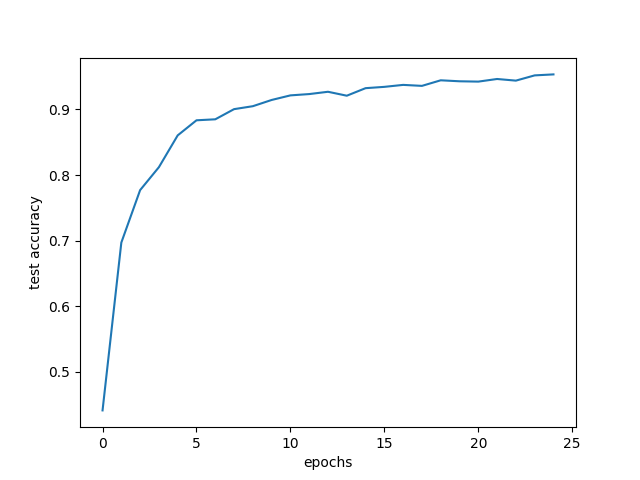
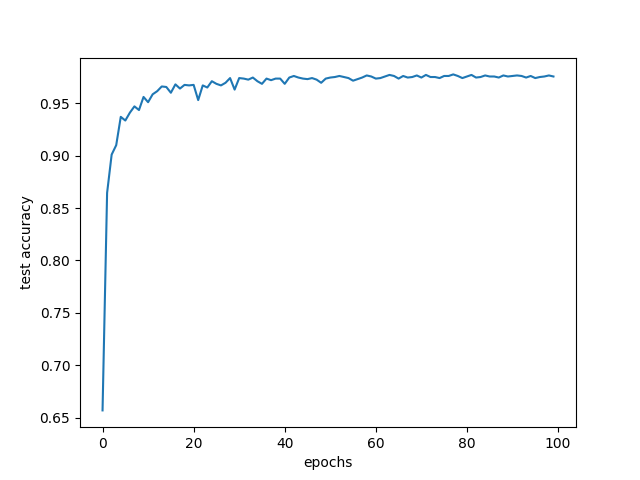
generated pictures

diff --git a/CZ4042-Neural-Networks/Proj2/project2a_1.py b/CZ4042-Neural-Networks/Proj2/project2a_1.py
@@ -16,7 +16,7 @@ from theano.tensor.signal import pool
  
 np.random.seed(10)
 batch_size = 128
-noIters = 5
+noIters = 100
 
 def init_weights_bias4(filter_shape, d_type):
     fan_in = np.prod(filter_shape[1:])
@@ -57,7 +57,7 @@ def model(X, w1, b1, w2, b2, w3, b3, w4, b4):
     #forward the output of fully connected layer to the 10 classification neurons in py_x,
     #activation function is now the softmax for probabilities in the outputs
     py_x = T.nnet.softmax(T.dot(y3, w4) + b4)
-    return y1, o1, y2, o2, y3, o3, py_x
+    return y1, o1, y2, o2, y3, py_x
 
 def sgd(cost, params, lr=0.05, decay=0.0001):
     grads = T.grad(cost=cost, wrt=params)
@@ -104,7 +104,7 @@ w3, b3 = init_weights_bias2((num_filters2*3*3, fully_connected_layer), X.dtype)
 w4, b4 = init_weights_bias2((fully_connected_layer, 10), X.dtype)
 
 
-y1, o1, y2, o2, y3, o3, py_x = model(X, w1, b1, w2, b2, w3, b3, w4, b4)
+y1, o1, y2, o2, y3, py_x = model(X, w1, b1, w2, b2, w3, b3, w4, b4)
 
 y_x = T.argmax(py_x, axis=1)
 cost = T.mean(T.nnet.categorical_crossentropy(py_x, Y))
@@ -142,13 +142,14 @@ pylab.xlabel('epochs')
 pylab.ylabel('test accuracy')
 pylab.savefig('figure_2a_accuracy.png')
 
+#plot training cost vs epochs
 pylab.figure()
 pylab.plot(range(noIters), c)
 pylab.xlabel('epochs')
 pylab.ylabel('cost')
 pylab.savefig('figure_2a_cost.png')
 
-
+#plot filters learned
 w = w1.get_value()
 pylab.figure('filters learned')
 pylab.gray()
@@ -156,39 +157,53 @@ for i in range(num_filters1):
     pylab.subplot(5, 3, i+1); pylab.axis('off'); pylab.imshow(w[i,:,:,:].reshape(9, 9))
 pylab.savefig('figure_2a_filtersLearned.png')
 
-ind = np.random.randint(low=0, high=2000)
-convolved, pooled = test(teX[ind:ind+1,:])
-ind = np.random.randint(low=0, high=2000)
-convolved2, pooled2 = test2(teX[ind:ind+1,:])
 
-pylab.figure('input image')
-pylab.gray()
-pylab.axis('off'); pylab.imshow(teX[ind,:].reshape(28,28))
-pylab.savefig('figure_2a_inputImage.png')
-
-pylab.figure('convolved feature maps_1')
-pylab.gray()
-for i in range(num_filters1):
-    pylab.subplot(5, 3, i+1); pylab.axis('off'); pylab.imshow(convolved[0,i,:].reshape(20,20))
-pylab.savefig('figure_2a_conv1.png')
-
-pylab.figure('pooled feature maps_1')
-pylab.gray()
-for i in range(num_filters1):
-    pylab.subplot(5, 3, i+1); pylab.axis('off'); pylab.imshow(pooled[0,i,:].reshape(10,10))
-pylab.savefig('figure_2a_pool1.png')
+for j in range(2):
+    ind = np.random.randint(low=0, high=2000)
+    print("Ind: " + str(ind))
+    convolved, pooled = test(teX[ind:ind+1,:])
+    convolved2, pooled2 = test2(teX[ind:ind+1,:])
 
 
-pylab.figure('convolved_2')
-pylab.gray()
-for i in range(num_filters2):
-    pylab.subplot(5, 4, i+1); pylab.axis('off'); pylab.imshow(convolved2[0,i,:].reshape(6,6))
-pylab.savefig('figure_2a_conv2.png')
+    #Plot input image
+    pylab.figure('input image_' + str(j+1))
+    pylab.gray()
+    pylab.axis('off'); pylab.imshow(teX[ind,:].reshape(28,28))
+    pylab.savefig('figure_2a_inputImage_' + str(j+1) + '.png')
 
-pylab.figure('pool_2')
-pylab.gray()
-for i in range(num_filters2):
-    pylab.subplot(5, 4, i+1); pylab.axis('off'); pylab.imshow(pooled2[0,i,:].reshape(3,3))
-pylab.savefig('figure_2a_pool2.png')
+
+    #Plot feature maps for for convolution layer 1
+    pylab.figure('convolved feature maps_1_' + str(j+1))
+    pylab.gray()
+    for i in range(num_filters1):
+        # Plot the maps in the shape 5*3
+        pylab.subplot(5, 3, i+1); pylab.axis('off'); pylab.imshow(convolved[0,i,:].reshape(20,20))
+    pylab.savefig('figure_2a_conv1_' + str(j+1) + '.png')
+
+    #Plot feature maps for pooling layer 1
+    pylab.figure('pooled feature maps_1_' + str(j+1))
+    pylab.gray()
+    for i in range(num_filters1):
+        # Plot the maps in the shape 5*3
+        pylab.subplot(5, 3, i+1); pylab.axis('off'); pylab.imshow(pooled[0,i,:].reshape(10,10))
+    pylab.savefig('figure_2a_pool1_' + str(j+1) + '.png')
+
+
+    #plot feature maps for convolution layer 2
+    pylab.figure('convolved_2_' + str(j+1))
+    pylab.gray()
+    for i in range(num_filters2):
+        #Plot the maps in the shape 5*4
+        pylab.subplot(5, 4, i+1); pylab.axis('off'); pylab.imshow(convolved2[0,i,:].reshape(6,6))
+    pylab.savefig('figure_2a_conv2_' + str(j+1) + '.png')
+
+
+    #plot feature maps for pooling layer 2
+    pylab.figure('pool_2_' + str(j+1))
+    pylab.gray()
+    for i in range(num_filters2):
+        #Plot the maps in the shape 5*4
+        pylab.subplot(5, 4, i+1); pylab.axis('off'); pylab.imshow(pooled2[0,i,:].reshape(3,3))
+    pylab.savefig('figure_2a_pool2_' + str(j+1) + '.png')
 
 pylab.show()

diff --git a/CZ4042-Neural-Networks/Proj2/project2a_3.py b/CZ4042-Neural-Networks/Proj2/project2a_3.py
@@ -11,7 +11,7 @@ from theano.tensor.signal import pool
 
 np.random.seed(10)
 batch_size = 128
-noIters = 50
+noIters = 100
 
 
 def init_weights_bias4(filter_shape, d_type):
@@ -69,7 +69,7 @@ def sgd_momentum(cost, params, lr=0.05, decay=0.0001, momentum=0.1):
     return updates
 """
 
-def RMSprop(cost, params, lr=0.05, decay=0.0001, rho=0.9, epsilon=1e-6):
+def RMSprop(cost, params, lr=0.0001, decay=0.0001, rho=0.9, epsilon=1e-6):
     grads = T.grad(cost=cost, wrt=params)
     updates = []
 
@@ -123,7 +123,7 @@ y1, o1, y2, o2, y3, o3, py_x = model(X, w1, b1, w2, b2, w3, b3, w4, b4)
 y_x = T.argmax(py_x, axis=1)
 cost = T.mean(T.nnet.categorical_crossentropy(py_x, Y))
 params = [w1, b1, w2, b2, w3, b3, w4, b4]
-updates = RMSprop(cost, params, lr=0.05)
+updates = RMSprop(cost, params, lr=0.001)
 
 train = theano.function(inputs=[X, Y], outputs=cost, updates=updates, allow_input_downcast=True)
 
@@ -152,55 +152,73 @@ pylab.figure()
 pylab.plot(range(noIters), a)
 pylab.xlabel('epochs')
 pylab.ylabel('test accuracy')
-pylab.savefig('figure_2a2_accuracy.png')
+pylab.savefig('figure_2a3_accuracy.png')
 
 pylab.figure()
 pylab.plot(range(noIters), c)
 pylab.xlabel('epochs')
 pylab.ylabel('cost')
-pylab.savefig('figure_2a2_cost.png')
+pylab.savefig('figure_2a3_cost.png')
 
 w = w1.get_value()
 pylab.figure('filters learned')
 pylab.gray()
 for i in range(num_filters1):
     pylab.subplot(5, 3, i + 1); pylab.axis('off'); pylab.imshow(w[i, :, :, :].reshape(9, 9))
-pylab.savefig('figure_2a2_filtersLearned.png')
+pylab.savefig('figure_2a3_filtersLearned.png')
 
 ind = np.random.randint(low=0, high=2000)
+
 convolved, pooled = test(teX[ind:ind + 1, :])
-ind = np.random.randint(low=0, high=2000)
 convolved2, pooled2 = test2(teX[ind:ind + 1, :])
 
-pylab.figure('input image')
-pylab.gray()
-pylab.axis('off');
-pylab.imshow(teX[ind, :].reshape(28, 28))
-pylab.savefig('figure_2a2_inputImage.png')
+for j in range(2):
+    ind = np.random.randint(low=0, high=2000)
+    print("Ind: " + str(ind))
+    convolved, pooled = test(teX[ind:ind+1,:])
+    convolved2, pooled2 = test2(teX[ind:ind+1,:])
 
-pylab.figure('convolved feature maps_1')
-pylab.gray()
-for i in range(num_filters1):
-    pylab.subplot(5, 3, i + 1); pylab.axis('off'); pylab.imshow(convolved[0, i, :].reshape(20, 20))
-pylab.savefig('figure_2a2_conv1.png')
 
-pylab.figure('pooled feature maps_1')
-pylab.gray()
-for i in range(num_filters1):
-    pylab.subplot(5, 3, i + 1); pylab.axis('off'); pylab.imshow(pooled[0, i, :].reshape(10, 10))
-pylab.savefig('figure_2a2_pool1.png')
+    #Plot input image
+    pylab.figure('input image_' + str(j+1))
+    pylab.gray()
+    pylab.axis('off'); pylab.imshow(teX[ind,:].reshape(28,28))
+    pylab.savefig('figure_2a3_inputImage_' + str(j+1) + '.png')
 
-pylab.figure('convolved_2')
-pylab.gray()
-for i in range(num_filters2):
-    pylab.subplot(5, 4, i + 1); pylab.axis('off'); pylab.imshow(convolved2[0, i, :].reshape(6, 6))
-pylab.savefig('figure_2a2_conv2.png')
 
-pylab.figure('pool_2')
-pylab.gray()
-for i in range(num_filters2):
-    pylab.subplot(5, 4, i + 1); pylab.axis('off'); pylab.imshow(pooled2[0, i, :].reshape(3, 3))
-pylab.savefig('figure_2a2_pool2.png')
+    #Plot feature maps for for convolution layer 1
+    pylab.figure('convolved feature maps_1_' + str(j+1))
+    pylab.gray()
+    for i in range(num_filters1):
+        # Plot the maps in the shape 5*3
+        pylab.subplot(5, 3, i+1); pylab.axis('off'); pylab.imshow(convolved[0,i,:].reshape(20,20))
+    pylab.savefig('figure_2a3_conv1_' + str(j+1) + '.png')
+
+    #Plot feature maps for pooling layer 1
+    pylab.figure('pooled feature maps_1_' + str(j+1))
+    pylab.gray()
+    for i in range(num_filters1):
+        # Plot the maps in the shape 5*3
+        pylab.subplot(5, 3, i+1); pylab.axis('off'); pylab.imshow(pooled[0,i,:].reshape(10,10))
+    pylab.savefig('figure_2a3_pool1_' + str(j+1) + '.png')
+
+
+    #plot feature maps for convolution layer 2
+    pylab.figure('convolved_2_' + str(j+1))
+    pylab.gray()
+    for i in range(num_filters2):
+        #Plot the maps in the shape 5*4
+        pylab.subplot(5, 4, i+1); pylab.axis('off'); pylab.imshow(convolved2[0,i,:].reshape(6,6))
+    pylab.savefig('figure_2a3_conv2_' + str(j+1) + '.png')
+
+
+    #plot feature maps for pooling layer 2
+    pylab.figure('pool_2_' + str(j+1))
+    pylab.gray()
+    for i in range(num_filters2):
+        #Plot the maps in the shape 5*4
+        pylab.subplot(5, 4, i+1); pylab.axis('off'); pylab.imshow(pooled2[0,i,:].reshape(3,3))
+    pylab.savefig('figure_2a3_pool2_' + str(j+1) + '.png')
 
 pylab.show()
 

diff --git a/CZ4042-Neural-Networks/Proj2/project2a_2.py b/CZ4042-Neural-Networks/Proj2/project2a_2.py
@@ -11,7 +11,7 @@ from theano.tensor.signal import pool
 
 np.random.seed(10)
 batch_size = 128
-noIters = 25
+noIters = 100
 
 
 def init_weights_bias4(filter_shape, d_type):
@@ -154,40 +154,53 @@ for i in range(num_filters1):
     pylab.subplot(5, 3, i + 1); pylab.axis('off'); pylab.imshow(w[i, :, :, :].reshape(9, 9))
 pylab.savefig('figure_2a2_filtersLearned.png')
 
-ind = np.random.randint(low=0, high=2000)
-convolved, pooled = test(teX[ind:ind + 1, :])
-ind = np.random.randint(low=0, high=2000)
-convolved2, pooled2 = test2(teX[ind:ind + 1, :])
+for j in range(2):
+    ind = np.random.randint(low=0, high=2000)
+    print("Ind: " + str(ind))
+    convolved, pooled = test(teX[ind:ind+1,:])
+    convolved2, pooled2 = test2(teX[ind:ind+1,:])
 
-pylab.figure('input image')
-pylab.gray()
-pylab.axis('off');
-pylab.imshow(teX[ind, :].reshape(28, 28))
-pylab.savefig('figure_2a2_inputImage.png')
 
-pylab.figure('convolved feature maps_1')
-pylab.gray()
-for i in range(num_filters1):
-    pylab.subplot(5, 3, i + 1); pylab.axis('off'); pylab.imshow(convolved[0, i, :].reshape(20, 20))
-pylab.savefig('figure_2a2_conv1.png')
+    #Plot input image
+    pylab.figure('input image_' + str(j+1))
+    pylab.gray()
+    pylab.axis('off'); pylab.imshow(teX[ind,:].reshape(28,28))
+    pylab.savefig('figure_2a2_inputImage_' + str(j+1) + '.png')
 
-pylab.figure('pooled feature maps_1')
-pylab.gray()
-for i in range(num_filters1):
-    pylab.subplot(5, 3, i + 1); pylab.axis('off'); pylab.imshow(pooled[0, i, :].reshape(10, 10))
-pylab.savefig('figure_2a2_pool1.png')
 
-pylab.figure('convolved_2')
-pylab.gray()
-for i in range(num_filters2):
-    pylab.subplot(5, 4, i + 1); pylab.axis('off'); pylab.imshow(convolved2[0, i, :].reshape(6, 6))
-pylab.savefig('figure_2a2_conv2.png')
+    #Plot feature maps for for convolution layer 1
+    pylab.figure('convolved feature maps_1_' + str(j+1))
+    pylab.gray()
+    for i in range(num_filters1):
+        # Plot the maps in the shape 5*3
+        pylab.subplot(5, 3, i+1); pylab.axis('off'); pylab.imshow(convolved[0,i,:].reshape(20,20))
+    pylab.savefig('figure_2a2_conv1_' + str(j+1) + '.png')
 
-pylab.figure('pool_2')
-pylab.gray()
-for i in range(num_filters2):
-    pylab.subplot(5, 4, i + 1); pylab.axis('off'); pylab.imshow(pooled2[0, i, :].reshape(3, 3))
-pylab.savefig('figure_2a2_pool2.png')
+    #Plot feature maps for pooling layer 1
+    pylab.figure('pooled feature maps_1_' + str(j+1))
+    pylab.gray()
+    for i in range(num_filters1):
+        # Plot the maps in the shape 5*3
+        pylab.subplot(5, 3, i+1); pylab.axis('off'); pylab.imshow(pooled[0,i,:].reshape(10,10))
+    pylab.savefig('figure_2a2_pool1_' + str(j+1) + '.png')
+
+
+    #plot feature maps for convolution layer 2
+    pylab.figure('convolved_2_' + str(j+1))
+    pylab.gray()
+    for i in range(num_filters2):
+        #Plot the maps in the shape 5*4
+        pylab.subplot(5, 4, i+1); pylab.axis('off'); pylab.imshow(convolved2[0,i,:].reshape(6,6))
+    pylab.savefig('figure_2a2_conv2_' + str(j+1) + '.png')
+
+
+    #plot feature maps for pooling layer 2
+    pylab.figure('pool_2_' + str(j+1))
+    pylab.gray()
+    for i in range(num_filters2):
+        #Plot the maps in the shape 5*4
+        pylab.subplot(5, 4, i+1); pylab.axis('off'); pylab.imshow(pooled2[0,i,:].reshape(3,3))
+    pylab.savefig('figure_2a2_pool2_' + str(j+1) + '.png')
 
 pylab.show()
 
